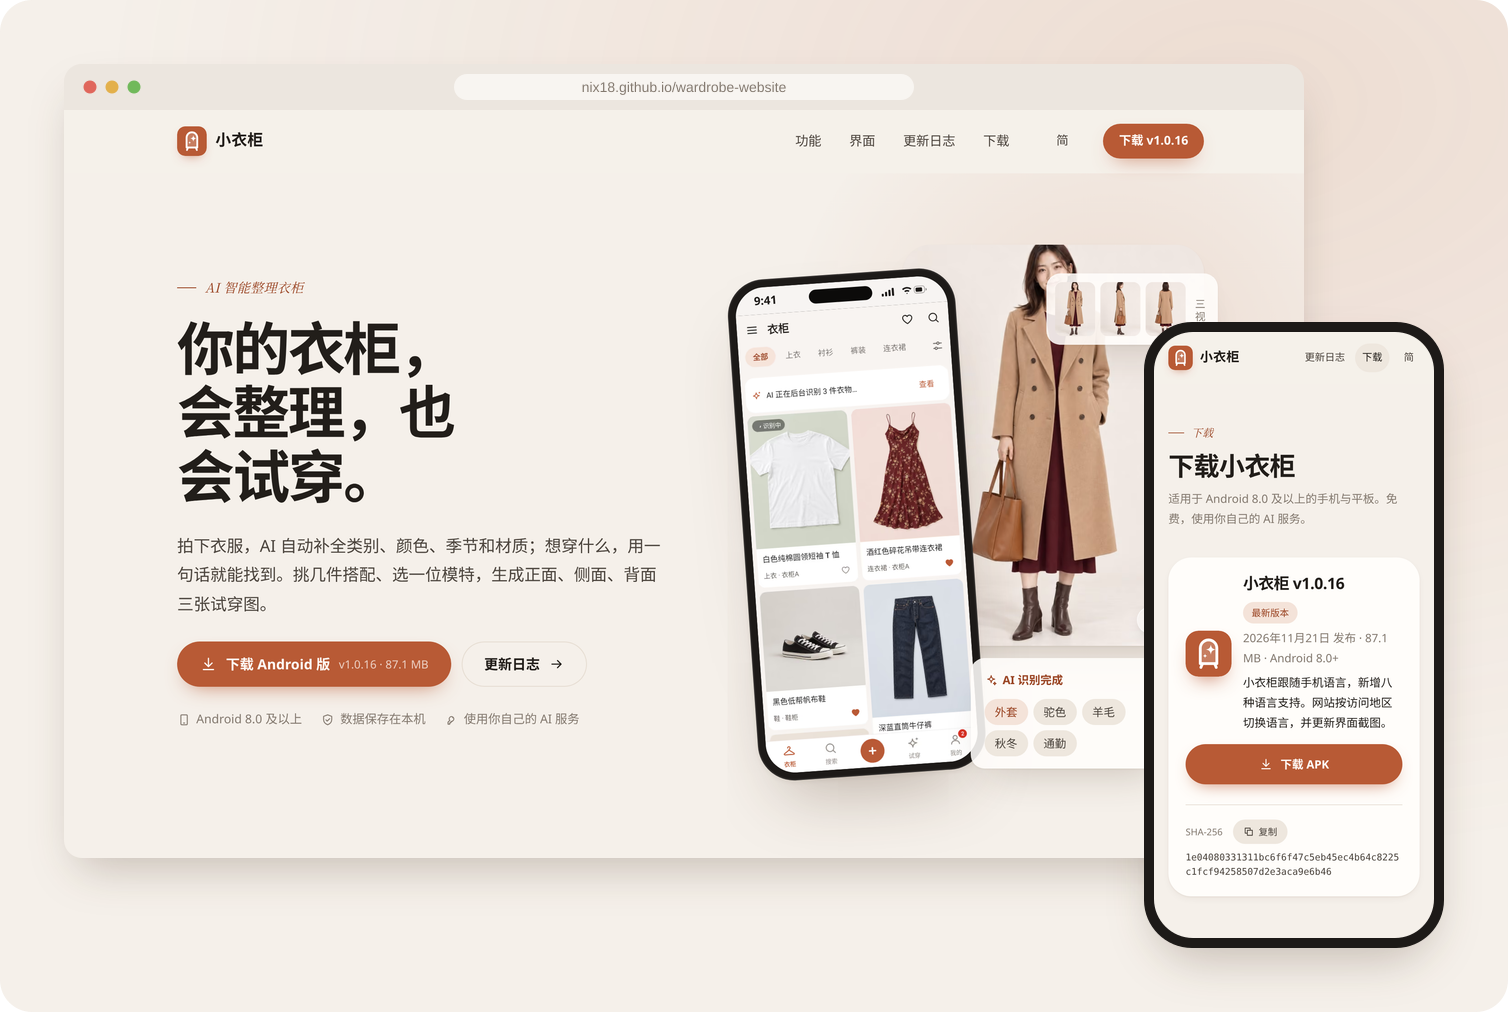
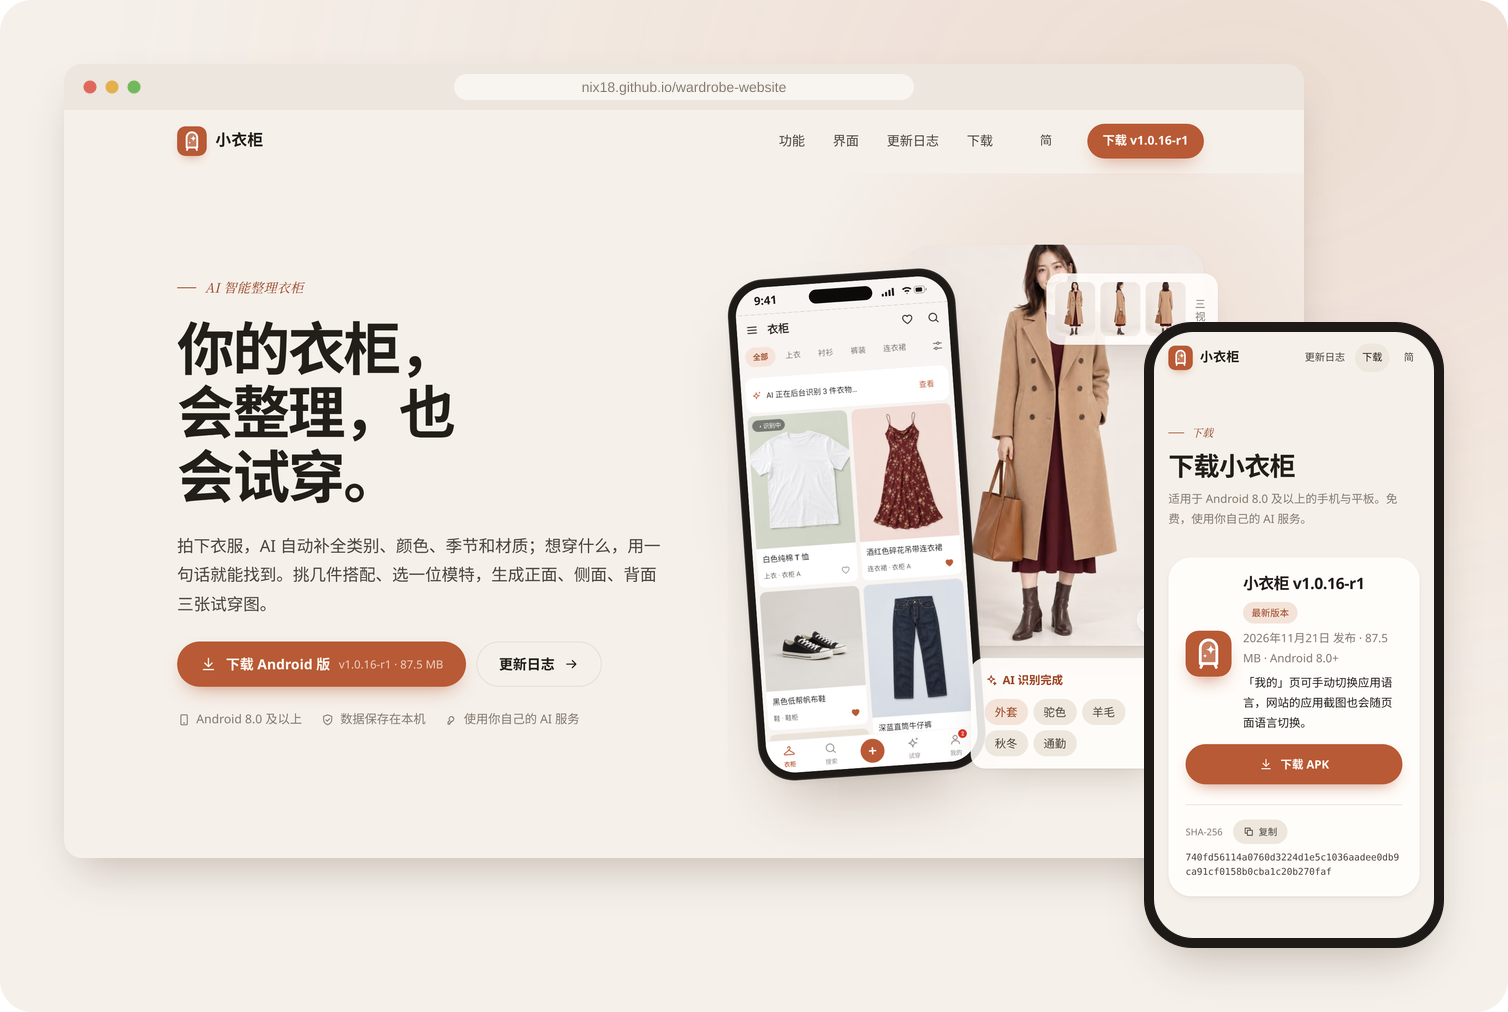
Publish the signed 1.0.16 revision on the website

diff --git a/src/content/releases/v1.0.16-r1.md b/src/content/releases/v1.0.16-r1.md
@@ -1,0 +1,13 @@
+---
+version: '1.0.16-r1'
+date: 2026-11-21T03:19:34.196Z
+size: 91793802
[1 lines of base64/hex data omitted]
+summary: "「我的」页可手动切换应用语言，网站的应用截图也会随页面语言切换。"
+---
+
+# 小衣柜 v1.0.16 修订 1
+
+- 「我的」页新增「语言」，可以在应用内切换八种语言，也可以恢复跟随系统。重启应用后会保留选择。
+- 网站首页、功能介绍和截图轮播里的应用截图随网站语言切换，包含相应语言的示例衣物和标签。
+- Android 应用仍显示 1.0.16，修订包可覆盖安装在上一版之上。

diff --git a/src/data/releases/ja/v1.0.16-r1.md b/src/data/releases/ja/v1.0.16-r1.md
@@ -1,0 +1,5 @@
+# v1.0.16-r1
+
+- **プロフィール → 言語** で8言語から選択できます。アプリを再起動しても選択は保存されます。**システムに従う** を選ぶと端末の言語に戻ります。
+- ウェブサイトのトップ、機能紹介、ギャラリーのスクリーンショットは、サンプルの衣類名やタグを含め、サイトの言語で表示されます。
+- Androidアプリのバージョン表示は引き続き1.0.16です。修正版のAPKは上書きインストールできます。

diff --git a/src/data/releases/fr/v1.0.16-r1.md b/src/data/releases/fr/v1.0.16-r1.md
@@ -1,0 +1,5 @@
+# v1.0.16-r1
+
+- Ouvrez **Profil → Langue** pour choisir parmi huit langues. Votre choix est conservé après redémarrage. Sélectionnez **Langue du système** pour revenir à la langue du téléphone.
+- Les captures d’écran de l’accueil, des fonctionnalités et de la galerie s’affichent dans la langue du site. Les vêtements et les étiquettes d’exemple sont également traduits.
+- L’application Android affiche toujours la version 1.0.16. Cet APK révisé peut être installé par-dessus la version précédente.

diff --git a/src/data/releases/de/v1.0.16-r1.md b/src/data/releases/de/v1.0.16-r1.md
@@ -1,0 +1,5 @@
+# v1.0.16-r1
+
+- Öffne **Profil → Sprache**, um eine der acht Sprachen zu wählen. Die Auswahl bleibt nach einem Neustart erhalten. Mit **Systemsprache** kehrst du zur Sprache des Telefons zurück.
+- Die Screenshots auf der Startseite, in der Funktionsübersicht und in der Galerie passen jetzt zur Sprache der Website. Dazu gehören auch die Beispielkleidung und ihre Tags.
+- Die Android-App zeigt weiterhin Version 1.0.16 an. Das überarbeitete APK lässt sich über die vorige Version installieren.

diff --git a/src/data/releases/es/v1.0.16-r1.md b/src/data/releases/es/v1.0.16-r1.md
@@ -1,0 +1,5 @@
+# v1.0.16-r1
+
+- Abre **Perfil → Idioma** para elegir uno de los ocho idiomas. La aplicación recuerda tu elección al reiniciarse. Selecciona **Idioma del sistema** para volver al idioma del teléfono.
+- Las capturas de la portada, de las funciones y de la galería muestran el idioma del sitio, incluidos los nombres de las prendas y las etiquetas de ejemplo.
+- La aplicación Android sigue mostrando la versión 1.0.16. Puedes instalar este APK revisado sobre la versión anterior.

diff --git a/src/data/releases/pt/v1.0.16-r1.md b/src/data/releases/pt/v1.0.16-r1.md
@@ -1,0 +1,5 @@
+# v1.0.16-r1
+
+- Abra **Perfil → Idioma** para escolher um dos oito idiomas. A preferência é mantida após reiniciar. Selecione **Idioma do sistema** para voltar ao idioma do celular.
+- As capturas da página inicial, dos recursos e da galeria acompanham o idioma do site, inclusive nos nomes das roupas e nas etiquetas de exemplo.
+- O aplicativo Android continua exibindo a versão 1.0.16. É possível instalar este APK revisado sobre a versão anterior.

diff --git a/src/data/releases/en/v1.0.16-r1.md b/src/data/releases/en/v1.0.16-r1.md
@@ -1,0 +1,5 @@
+# v1.0.16-r1
+
+- Open **Profile → Language** to pick one of the eight languages. The choice persists after a restart. Select **Follow system** to return to your phone’s language.
+- The app screenshots in the website’s hero, features, and gallery now use the selected language, including the example clothes and tags.
+- The Android app still displays version 1.0.16. This revised APK can be installed over the previous one.

diff --git a/src/data/releases/zh-hant/v1.0.16-r1.md b/src/data/releases/zh-hant/v1.0.16-r1.md
@@ -1,0 +1,5 @@
+# v1.0.16-r1
+
+- 開啟 **我的 → 語言**，即可選擇八種語言之一。重新啟動後會保留選擇，也可選擇 **跟隨系統**。
+- 網站首頁、功能介紹與截圖輪播都會顯示所選語言的截圖，示範衣物與標籤也已本地化。
+- Android 應用程式仍顯示 1.0.16，修訂版可以覆蓋安裝。
